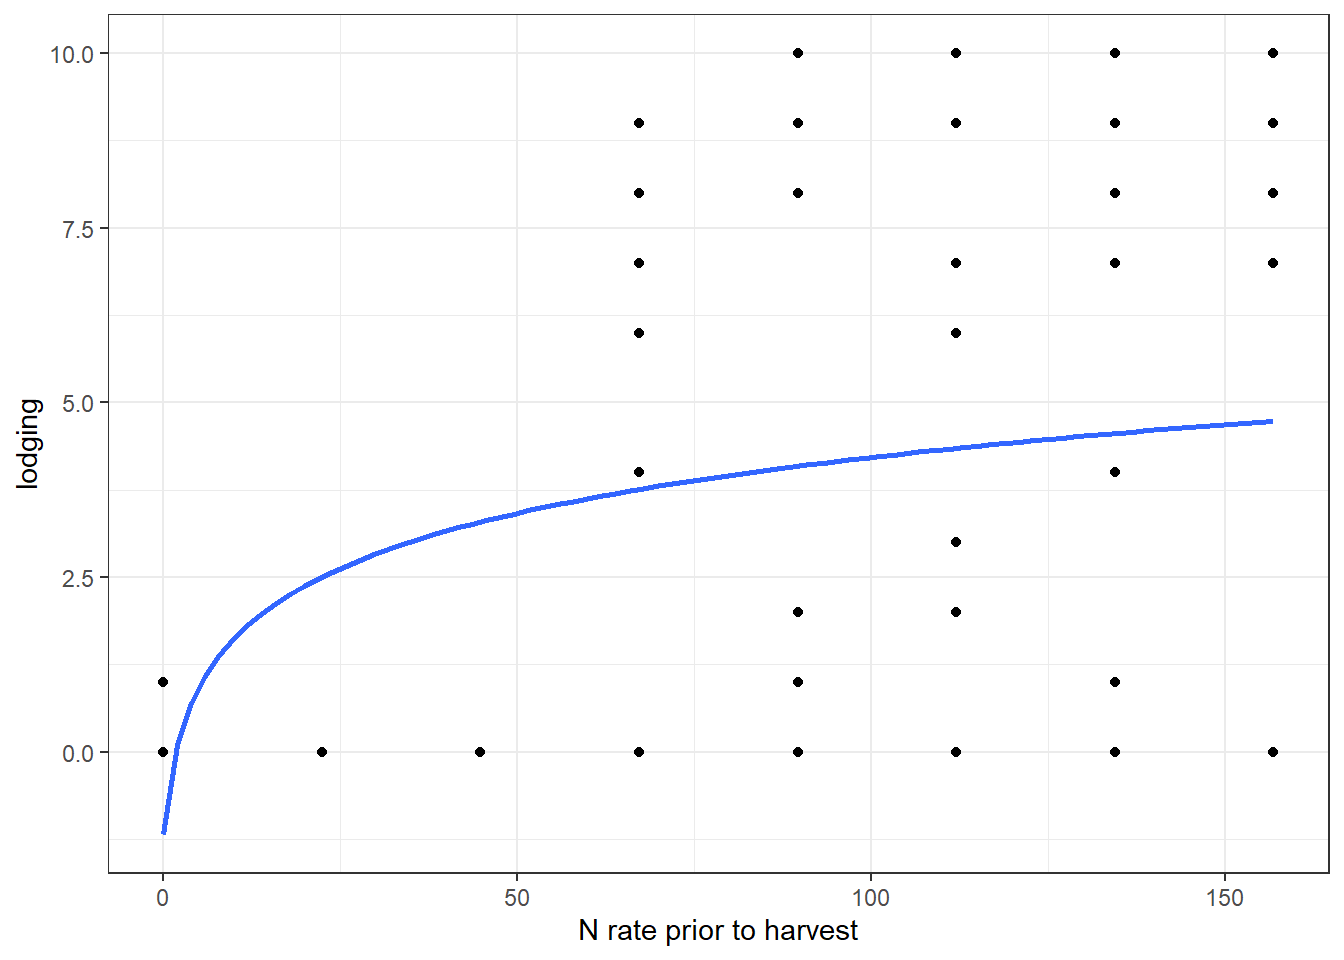
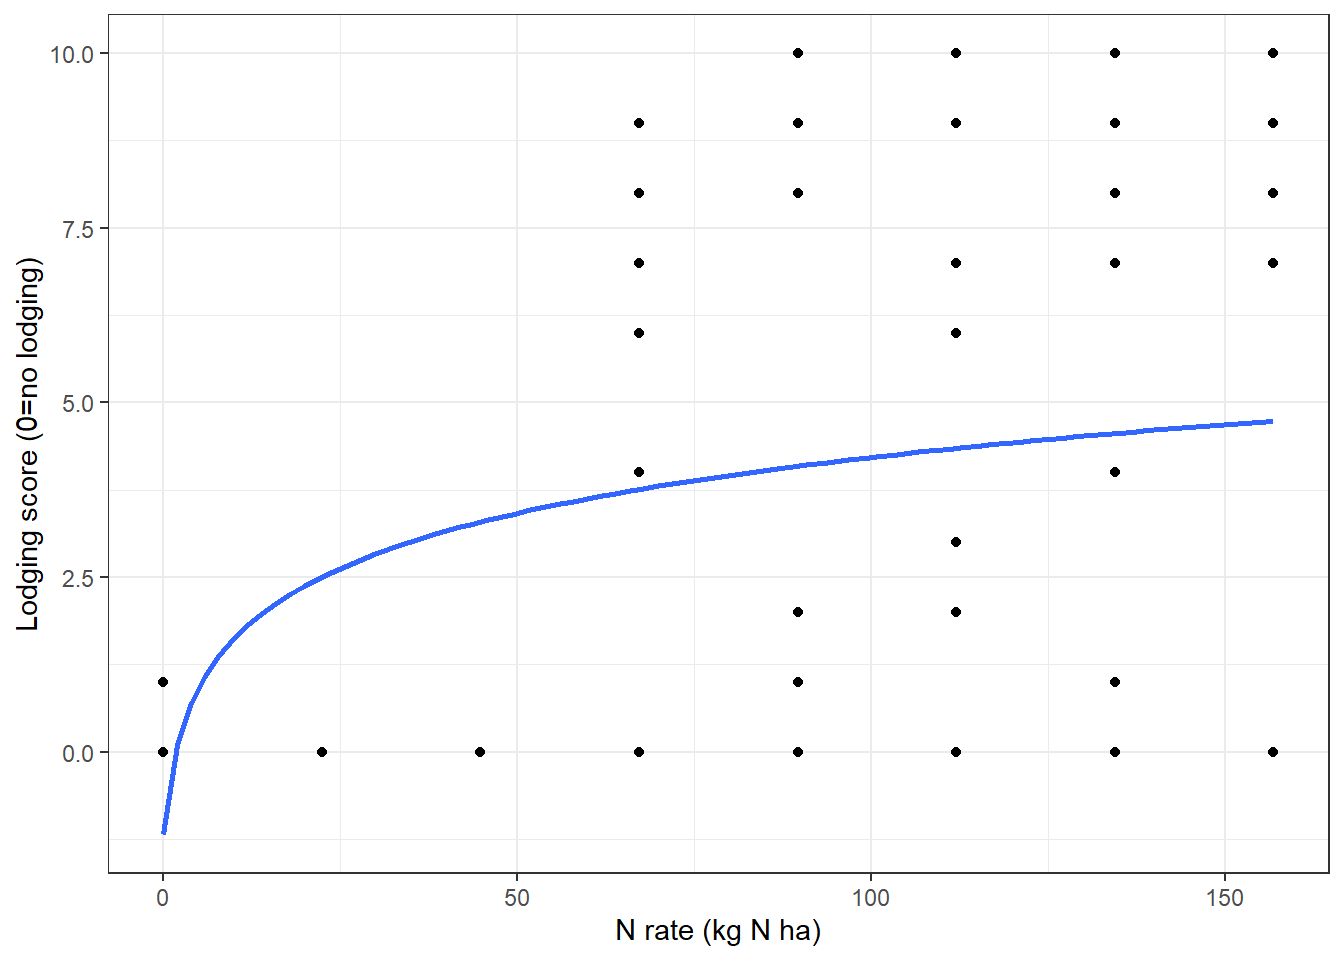
Minor polishing of text

Changed region(s): [[0.4375, 0.9375, 0.625, 1.0], [0.0, 0.2812, 0.0312, 0.6562]]

diff --git a/nrate_draft.html b/nrate_draft.html
@@ -93,7 +93,7 @@ ul.task-list li input[type="checkbox"] {
 <div class="cell">
 <div class="cell-output-display">
 <table class="table table-sm table-striped">
-<caption>Ee have 10 site-years, more than enough to be a random effect</caption>
+<caption>We have 10 site-years, more than enough to be a random effect</caption>
 <thead>
 <tr class="header">
 <th style="text-align: left;">location</th>
